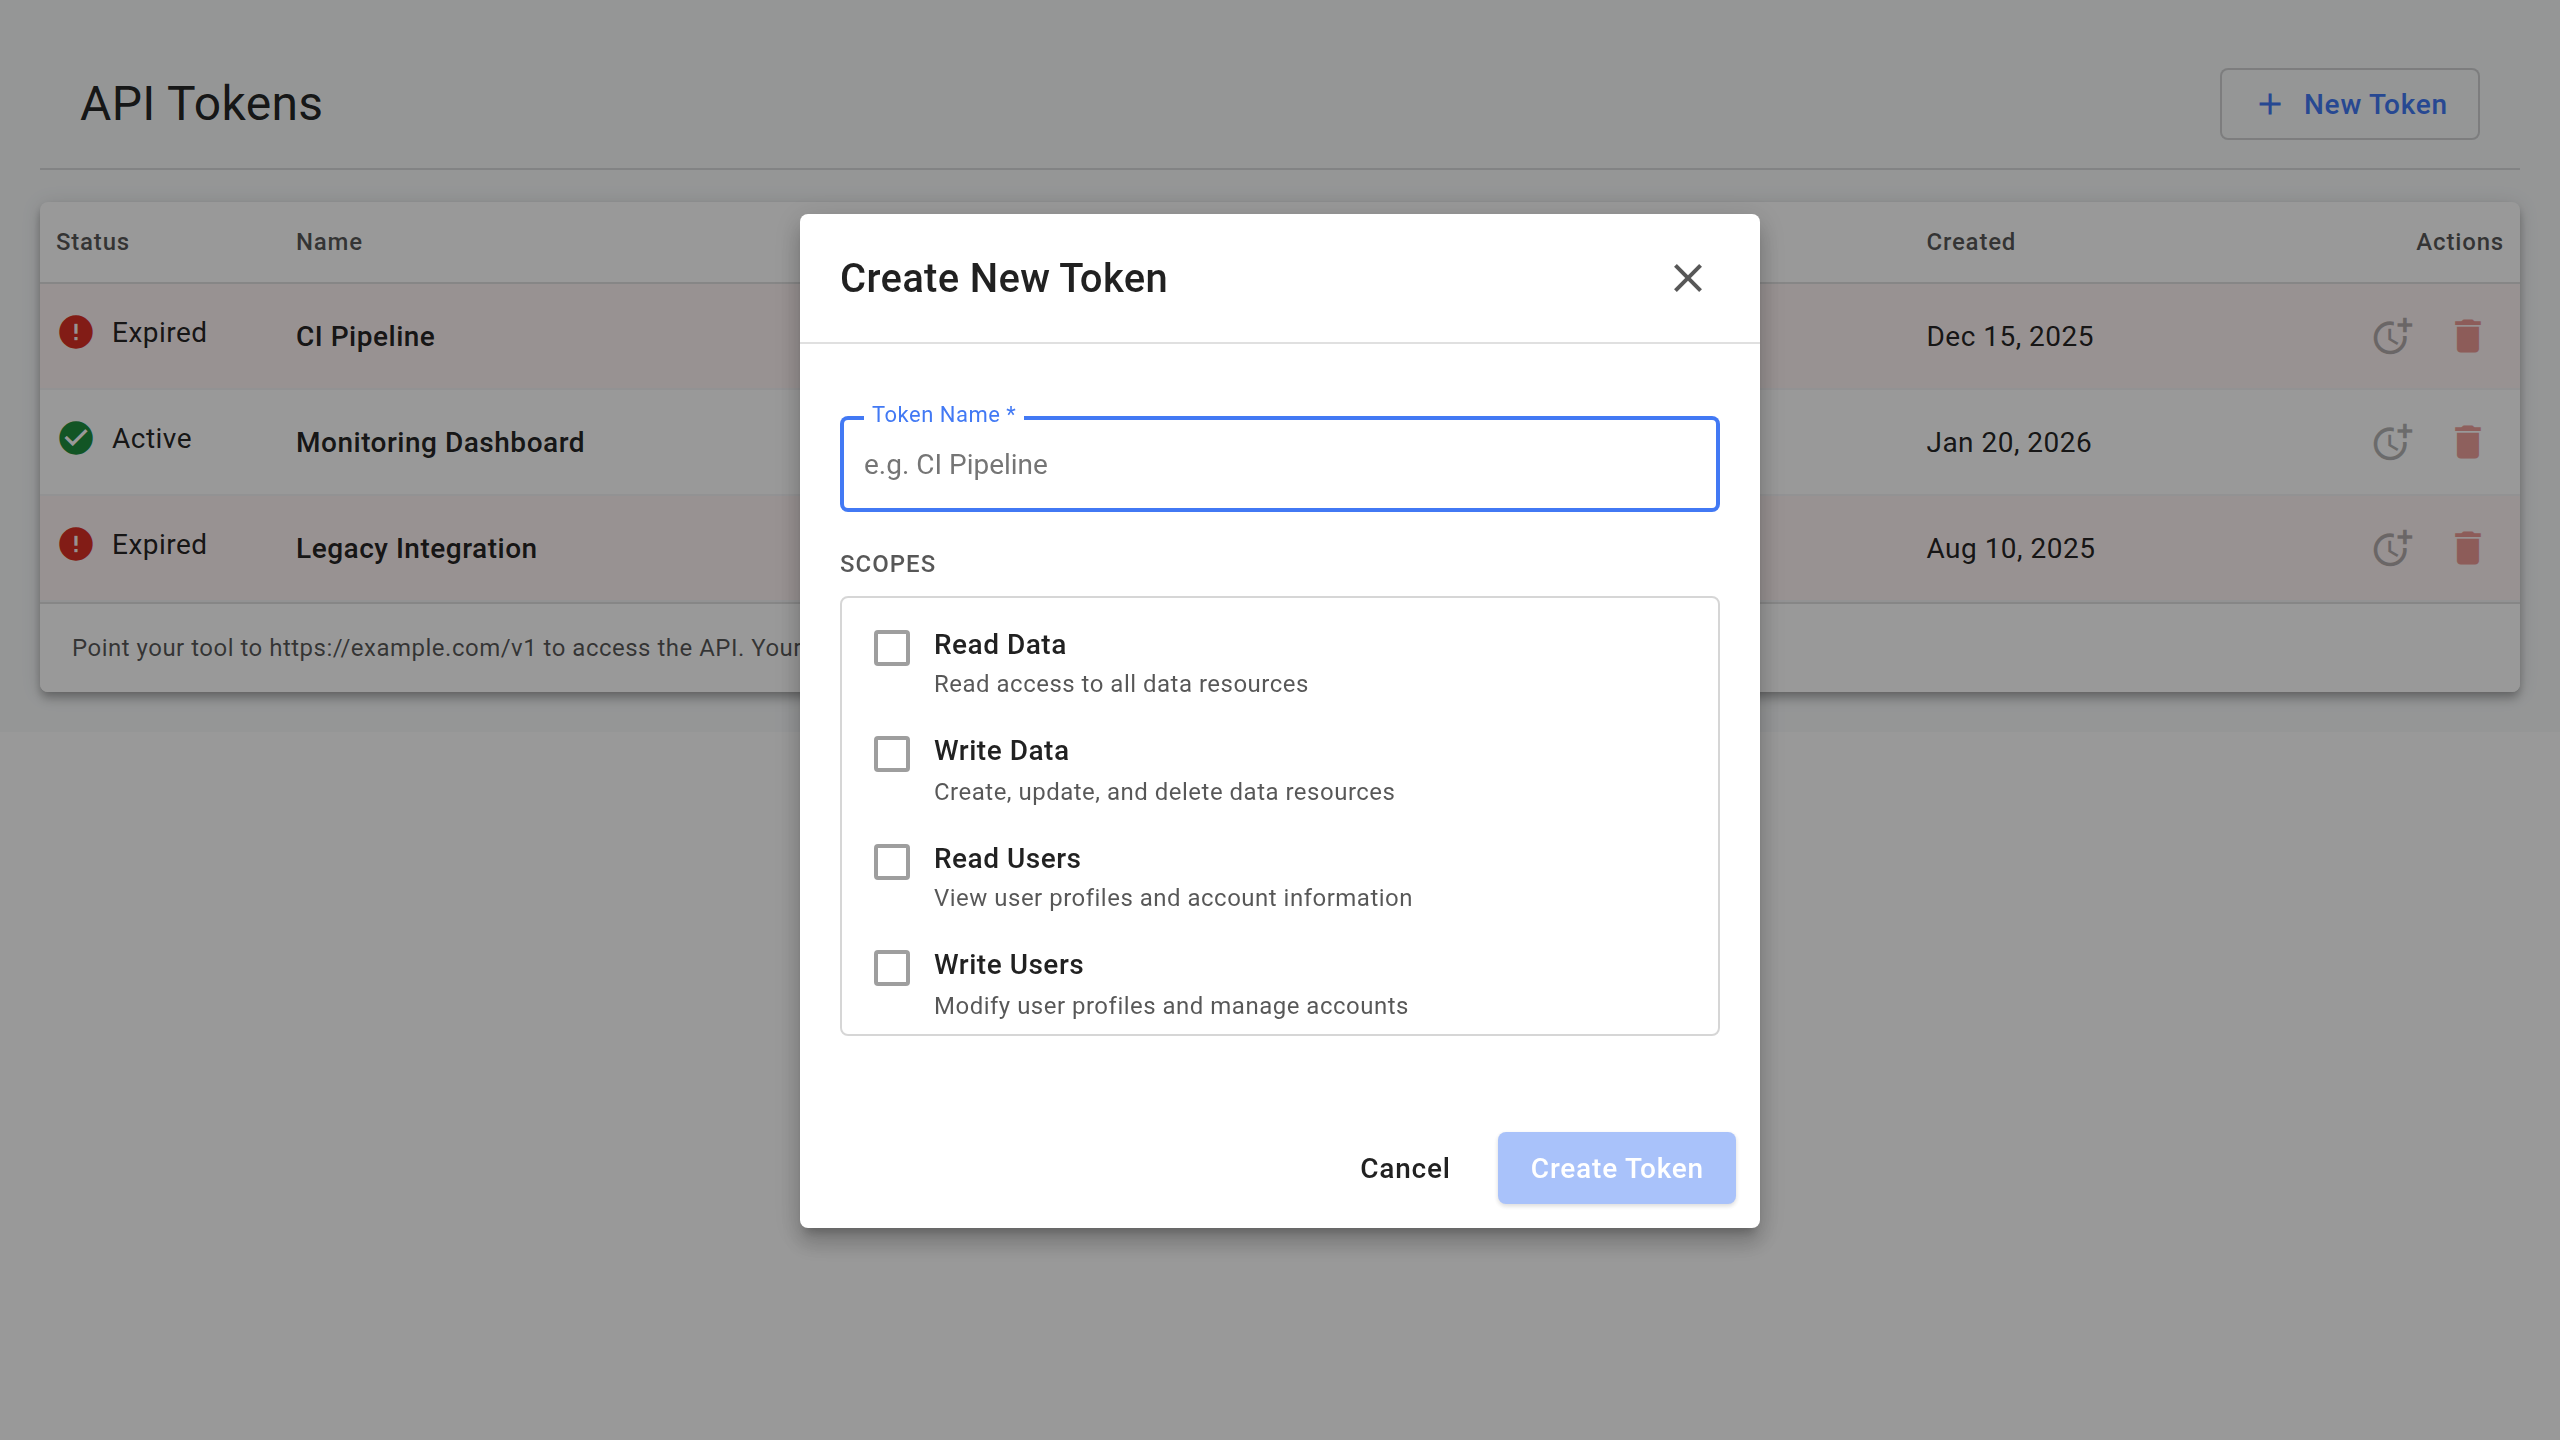
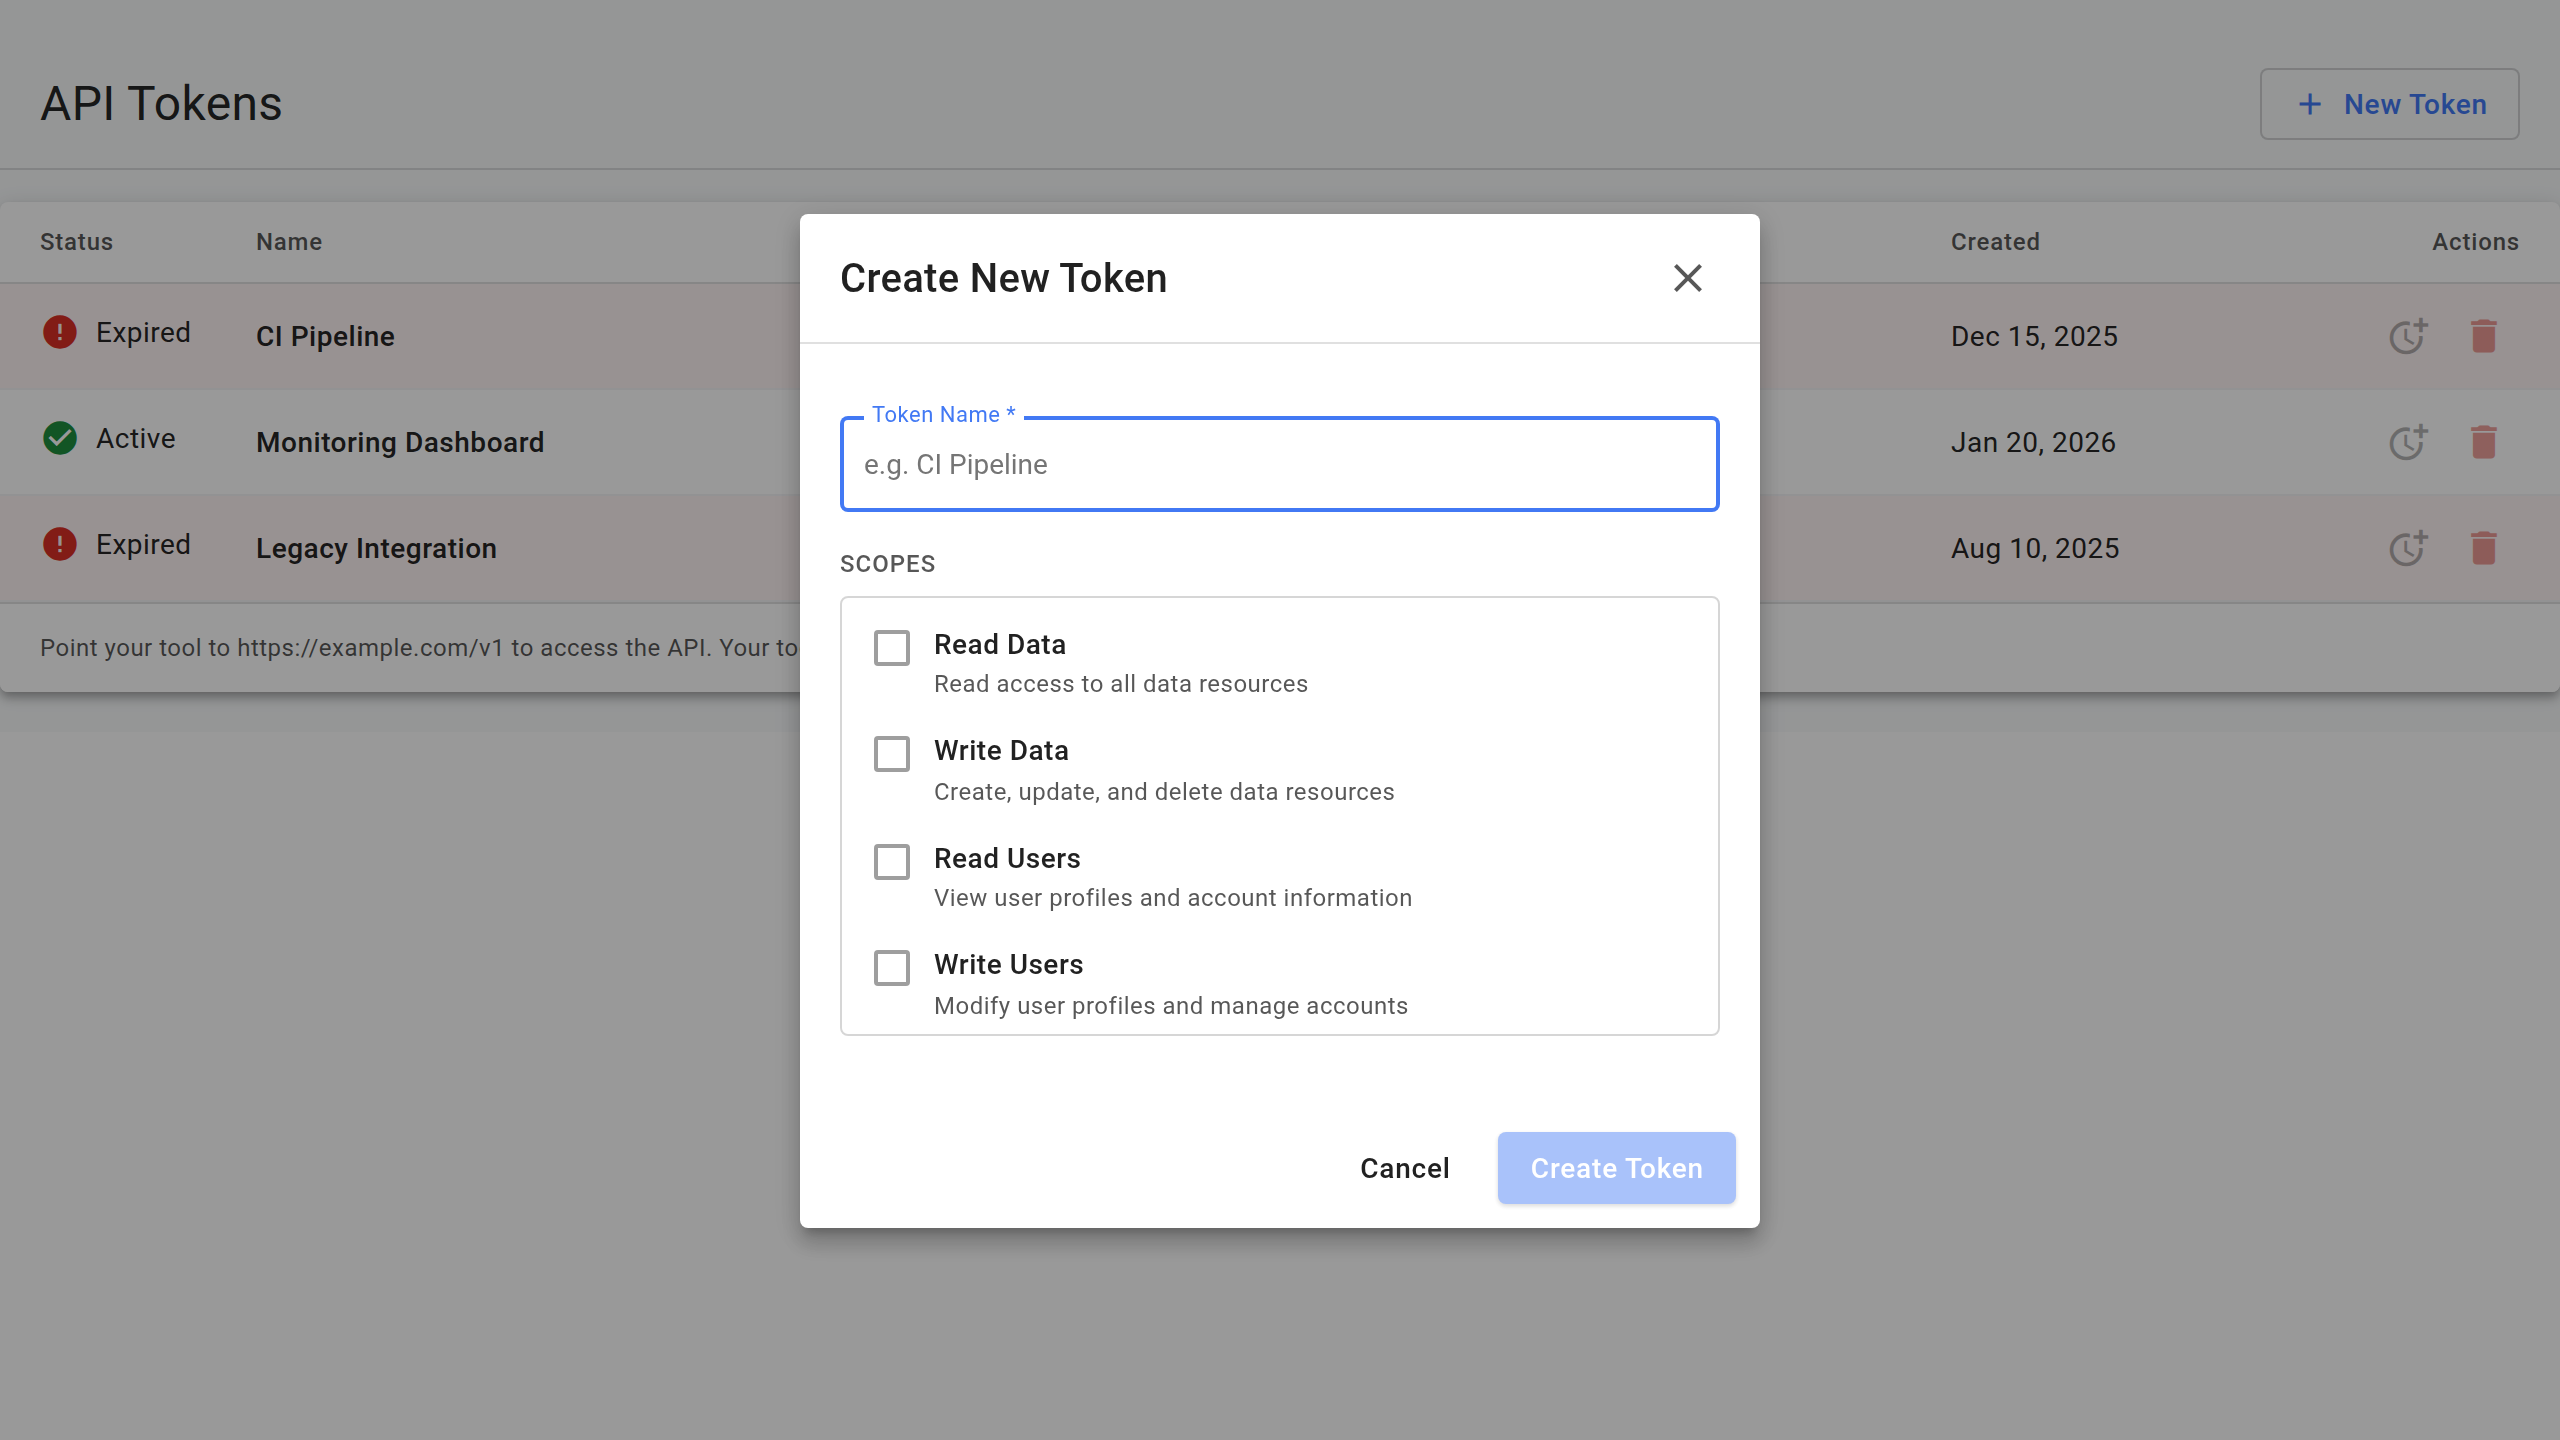
Make token table full-bleed to remove side margins
Removing the max-width centering still left a 20px page-padding gutter on
every side, so the card floated with visible left/right margins instead of
spanning the embed width like the Central Dashboard's own tables.

Drop the horizontal page padding (keep vertical breathing room) so the card
is full-bleed, and inset the first/last table cells and the footer to the
same 20px as the toolbar title so the whole page shares one left/right edge.

Regenerate the token-ui screenshots.

Claude-Session: https://claude.ai/code/session_01UmxxHPNPtzNY2X2s1MNGBF

diff --git a/pages/token-ui/app.css b/pages/token-ui/app.css
@@ -9,7 +9,20 @@ body {
 }
 
 .page {
-	padding: var(--page-padding-x);
+	/* Full-bleed horizontally so the table spans the embed width like the
+	   Central Dashboard's own tables; vertical breathing room only. */
+	padding: var(--page-padding-x) 0;
+}
+
+/* Align table content + footer with the toolbar title's 20px inset so the
+   whole page shares one left/right edge (no floating side margins). */
+.kf-table th:first-child,
+.kf-table td:first-child {
+	padding-left: var(--page-padding-x);
+}
+.kf-table th:last-child,
+.kf-table td:last-child {
+	padding-right: var(--page-padding-x);
 }
 
 /* expired-row tint — matches DS error-bg but very subtle */
@@ -34,7 +47,7 @@ body {
 
 /* Footer hint inside the card */
 .api-notice {
-	padding: 14px 16px;
+	padding: 14px var(--page-padding-x);
 	font: var(--text-caption-font);
 	color: var(--text-secondary);
 	border-top: 1px solid var(--border-divider);
@@ -52,7 +65,7 @@ body {
 
 /* ---------- Inline error banner above table ---------- */
 .error-strip {
-	padding: 16px 16px 0;
+	padding: 16px var(--page-padding-x) 0;
 }
 .error-dismiss {
 	margin-left: auto;
